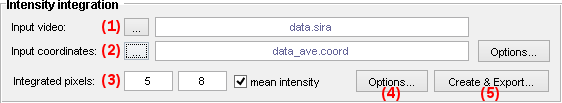
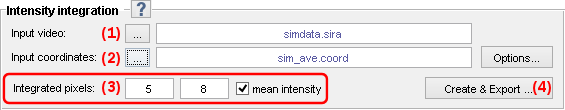
Merge manually master into just-the-docs-7

Changed region(s): [[0.0, 0.0, 1.0, 0.9612], [0.6352, 0.6699, 0.9982, 0.9903], [0.0, 0.233, 0.121, 0.3495]]

diff --git a/docs/Getting_started.md b/docs/Getting_started.md
@@ -13,38 +13,56 @@ nav_order: 1
 {:toc}
 
 
+---
+
+## System requirements
+
+To run MASH-FRET, the software 
+[MATLAB](https://fr.mathworks.com/products/matlab.html) and a list of specific toolboxes must be installed on your computer.
+For more information about system requirements, please refer to the documentation section 
+[System requirements](System_requirements.html).
+
+**Note:** *MASH-FRET is tested to run under Matlab version R2011a and above*
+
+
+---
+
 ## Installation
 Clone or [download](https://github.com/RNA-FRETools/MASH-FRET/archive/master.zip) MASH-FRET into a directory of your choice.
+
 ```
 git clone https://github.com/RNA-FRETools/MASH-FRET.git
 ```
 
-Within Matlab add MASH-FRET to your path by going to `Home → Set Path → Add with Subfolders`
+Within MATLAB, add MASH-FRET to your search path by going to `Home → Set Path → Add with Subfolders`
 {: .pb-3 }
 
 Start MASH-FRET by typing `MASH` at the MATLAB command prompt.
 
-**Note:** *MASH-FRET is tested to run under Matlab version R2011a and above*
+
+---
 
 ## Interface
 
-When you start MASH-FRET the **interactive interface** and **action history** open simultaneously.
+When you start MASH-FRET the **main user interface** and **action history** open simultaneously.
 
 <a href="assets/images/gui/interface-default.png"><img src="assets/images/gui/interface-default.png" /></a>
 
-The interactive interface appears in its default layout and includes:
-* a **tool bar** to switch between <u>modules</u> (default: Video Processing) and set the <u>root folder</u> where generated files will be saved,
+The main user interface appears in its default layout and includes:
+* a **tool bar** that allows to access the different <u>modules</u> (default: Video Processing) and to set the default <u>destination directory</u> where files will be exported,
 * a **main area** that contains the selected module,
 * a **menu bar** to set the action history <u>view</u>, set <u>overwrite</u> file options and execute program <u>routines</u> (*advanced use*).
 
 The action history lists the main events occurring in the program.
 
-**Note:** *Keep the action history or the command window of Matlab visible when using MASH-FRET: information about running processes and failures are streaming in live.
+**Note:** *Keep the action history or the command window of MATLAB visible when using MASH-FRET: information about running processes and failures are streaming in live.
 To keep track, logs are automatically written in a 
 [daily log file](output-files/log-daily-logs.html)*.
 
 
-## Modules
+---
+
+## Modules and tutorials
 
 The program offers five modules to work with:
 
@@ -54,15 +72,13 @@ The program offers five modules to work with:
 - [Histogram analysis](histogram-analysis.html)
 - [Transition analysis](transition-analysis.html)
 
-Module functionalities can be used separately or following a specific procedure.
+Modules were originally created for the simulation, processing and analysis of video-based surface-immobilized single molecule FRET (smFRET) experiments.
+Nonetheless, functionalities can be used for any type of video or trajectories requiring the same treatment.
 
-Learn about <u>individual functionalities</u> in the respective module sections of the documentation or follow the <u>tutorials</u> to perform more complex tasks.
-
-## Tutorials
-
-You can follow the tutorials to perform the common tasks listed below:
+Learn about module's <u>individual functionalities</u> in the respective documentation sections, or follow the 
+[Tutorials](tutorials.html) to perform common tasks listed below:
 
 * [Analyze experimental data](tutorials/analyze-data.html)
-* [Validate results](tutorials/validate-results.html)
+* [Validate analysis results](tutorials/validate-results.html)
 * [Test algorithms](tutorials/test-algorithms.html)
 

diff --git a/docs/video-processing/panels/panel-intensity-integration.md b/docs/video-processing/panels/panel-intensity-integration.md
@@ -9,7 +9,7 @@ nav_order: 6
 # Intensity integration
 {: .no_toc }
 
-<a href="../../assets/images/gui/VP-panel-integration.png"><img src="../../assets/images/gui/VP-panel-integration.png" style="max-width: 562px;"/></a>
+<a href="../../assets/images/gui/VP-panel-integration.png"><img src="../../assets/images/gui/VP-panel-integration.png" style="max-width: 565px;"/></a>
 
 ## Panel components
 {: .no_toc .text-delta }
@@ -77,25 +77,21 @@ In this case, the y-axis of intensity-time trace plots when using the
 
 ---
 
-## Export options
+## Create and export intensity-time traces
 
-These settings define the file formats to export.
+Command that opens the export options prior starting intensity-time trace calculations. 
 
 To set export options, please refer to 
 [Set export options](../functionalities/set-export-options.html).
 
-
----
-
-## Create and export intensity-time traces
-
-Command that starts intensity calculations for each molecule coordinates present in 
+After saving export options, intensity calculations start for each molecule coordinates present in 
 [Input coordinates](#input-coordinates), on each video frame present in 
 [Input video](#input-video), with parameters defined in 
 [Integration parameters](#integration-parameters), and exports single molecule intensity-time traces to files selected in 
 [Export options](#export-options).
 
-This process is relatively slow as the underlying algorithm is adapted to low-RAM computer: pixel values in the video are not loaded all at once in memory but the video file is browsed every time a pixel value is needed for calculation. 
+This process can be relatively slow if nor enough memory is available.
+In this case, pixel values in the video are not loaded all at once in memory but the video file is browsed every time a pixel value is needed for calculation. 
 For more information, please refer to the respective functions in the source code:
 
 ```

diff --git a/docs/video-processing/functionalities/set-export-options.md b/docs/video-processing/functionalities/set-export-options.md
@@ -9,6 +9,14 @@ nav_order: 4
 # Set export options
 {: .no_toc }
 
+Export options define the particular files to export after completion of time trace calculations in module Video processing.
+The window is accessed by pressing 
+![Create & Export...](../../assets/images/gui/VP-but-export.png "Create & Export...") in 
+[Intensity integration](../panels/panel-intensity-integration.html).
+
+Press 
+![Next >>](../../assets/images/gui/TP-but-next-supsup.png "Next >>") to start calculating time traces and export files.
+
 <a href="../../assets/images/gui/VP-panel-integration-expopt.png"><img src="../../assets/images/gui/VP-panel-integration-expopt.png" style="max-width: 286px;"/></a>
 
 

diff --git a/docs/simulation/panels/panel-molecules.md b/docs/simulation/panels/panel-molecules.md
@@ -144,6 +144,7 @@ To simulate a system with more than five states, please refer to
 
 
 ### References
+{: .no_toc }
 
 1. S. Schmid, T. Hugel, *Efficient use of single molecule time traces to resolve kinetic rates, models and uncertainties*, *J. Chem. Phys.* **2017**, DOI: [10.1063/1.5006604](https://doi.org/10.1063/1.5006604)
 

diff --git a/docs/index.md b/docs/index.md
@@ -22,6 +22,9 @@ Clone or
 git clone https://github.com/RNA-FRETools/MASH-FRET.git
 ```
 
+For more information about system requirements, please refer to the documentation section 
+[System requirements](System_requirements.html).
+
 
 ## Getting involved
 
